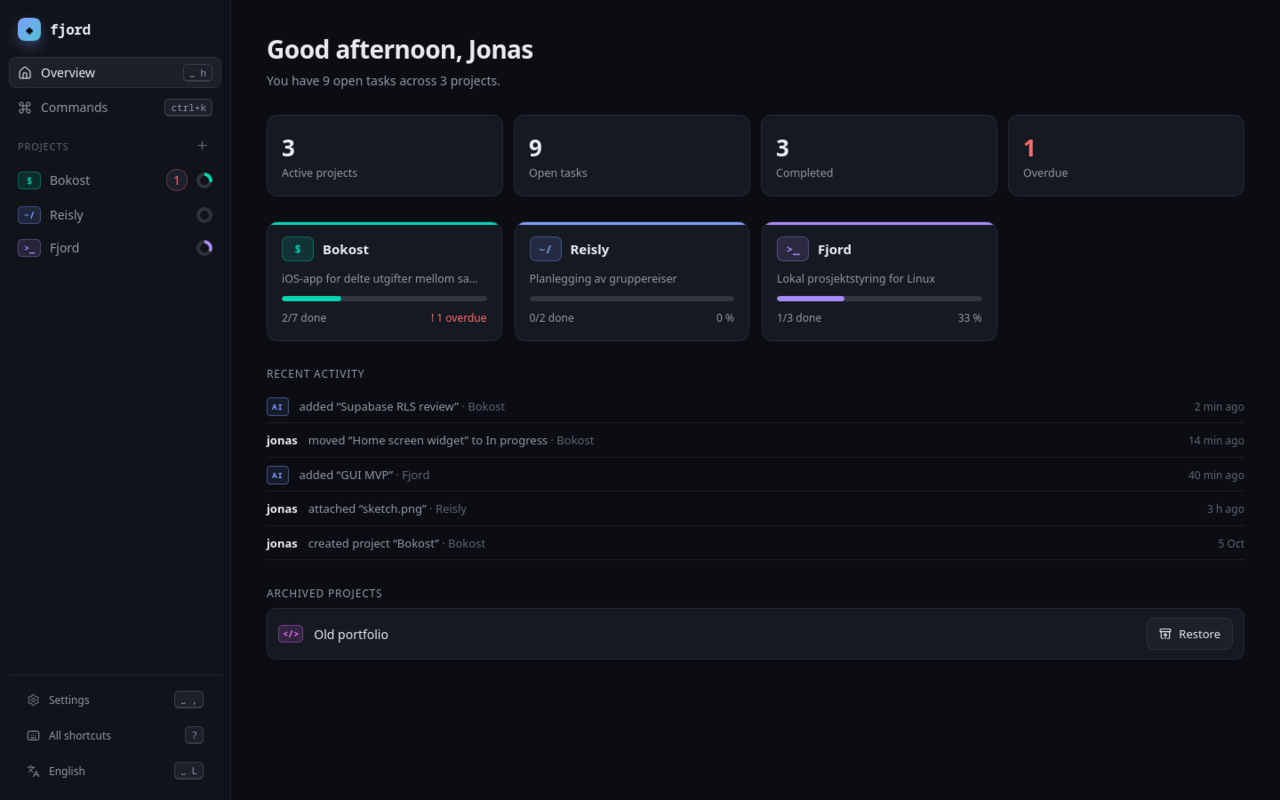
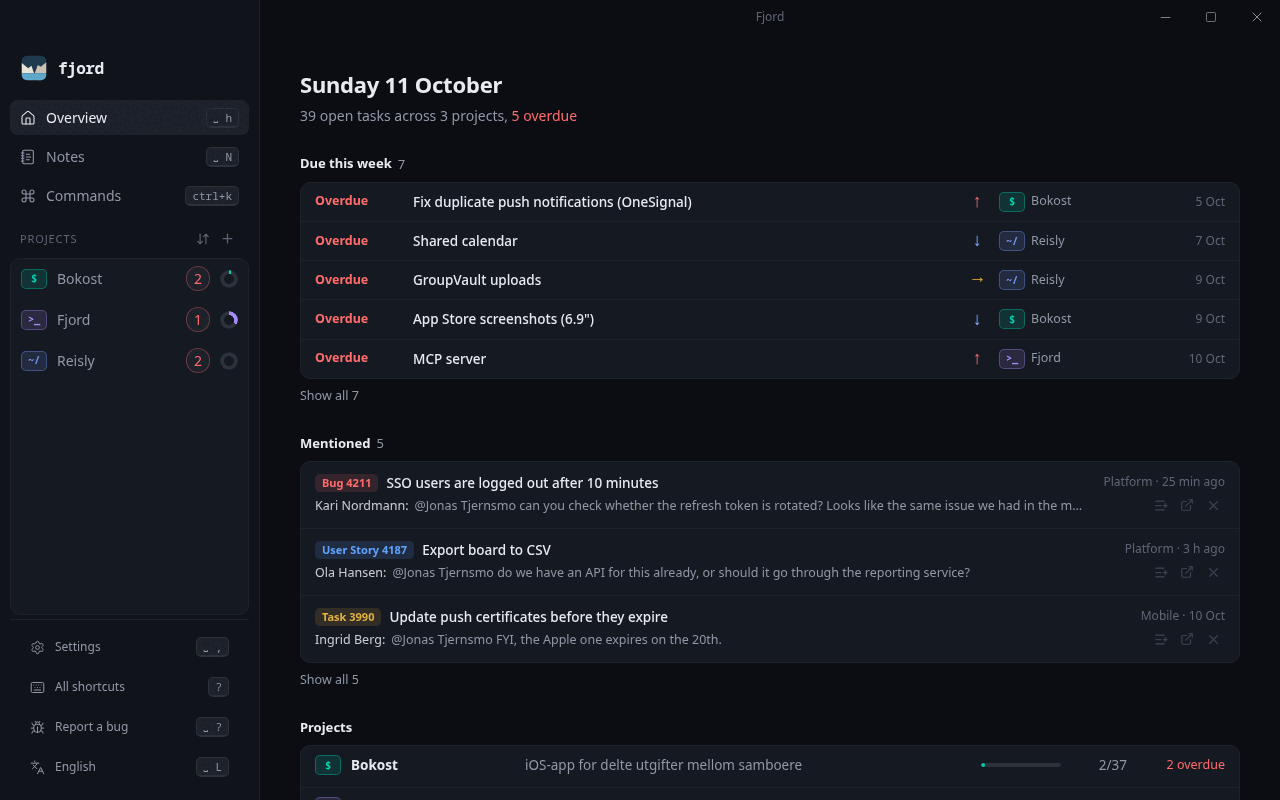
docs: changelog and new Overview screenshot

diff --git a/CHANGELOG.md b/CHANGELOG.md
@@ -4,6 +4,10 @@ All notable changes to Fjord. Versions follow [Semantic Versioning](https://semv
 Fjord is below 1.0, minor versions can change behaviour. Downloads are on the
 [releases page](https://github.com/jhtjernsmo/fjord/releases).
 
+## Unreleased
+
+- **Calmer Overview:** today's date and a one-line summary replace the greeting and the four number cards, section headings are plain, and projects are a compact list in the same style as Due this week.
+
 ## 0.2.15 — 2026-10-09
 
 - **Due this week** on the Overview: open tasks from every project that are due by Sunday, overdue ones first, then by day and priority. Click one to open it.
